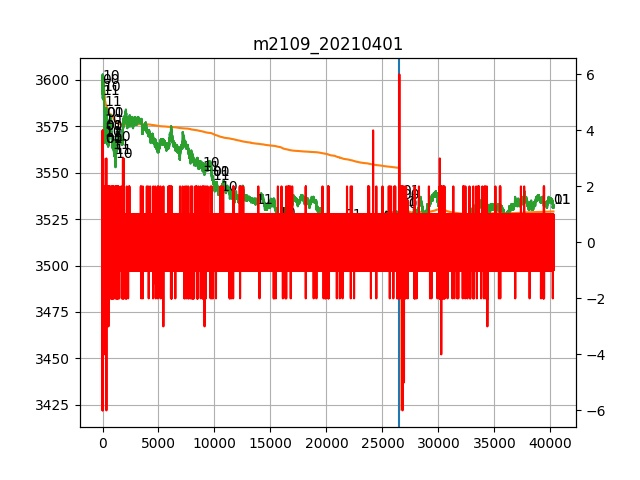
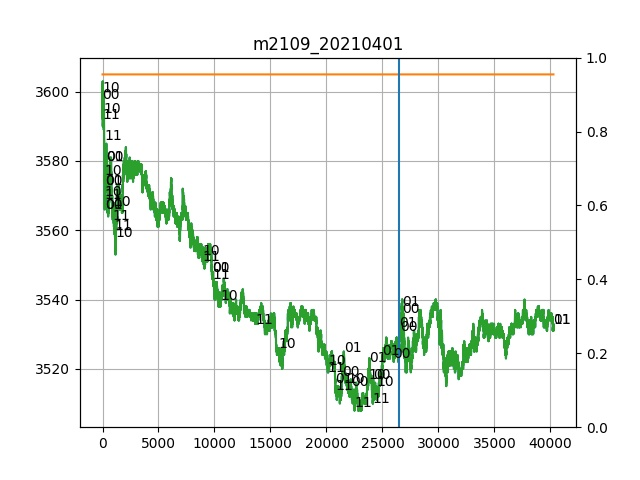
refactor

diff --git a/BackTester.py b/BackTester.py
@@ -9,6 +9,7 @@
 from define import *
 from Factor import Factor
 from Position import Position
+from Account import Account
 from editorconfig import get_properties, EditorConfigError
 import pandas as pd
 import logging
@@ -89,13 +90,15 @@ def on_tick(factor=None, position=None, tick=[], *args, **kwargs):
 
 def backtesting(product_id='m', trade_date='20210401', prev_date='2021-03-31'):
     file_name = 'C:\projects\pycharm\option_future_research\.editorconfig'
+    backtesting_config = "{0}_{1}".format(product_id, trade_date)
     try:
         options = get_properties(file_name)
     except EditorConfigError:
         logging.warning("Error getting EditorConfig propterties", exc_info=True)
     else:
         for key, value in options.items():
-            print("{0}:{1}".format(key, value))
+            backtesting_config = '{0},{1}:{2}'.format(backtesting_config, key, value)
+            # print("{0}:{1}".format(key, value))
     # load daily market data
     df = pd.read_csv('cache/future_20210331_20210630.csv')
     df = df[df.mainCon == 1]
@@ -116,6 +119,7 @@ def backtesting(product_id='m', trade_date='20210401', prev_date='2021-03-31'):
     values = m_df.values
     factor = Factor()
     position = Position()
+    account = Account()
     # kwargs.update({'instrument_id': instrument_id})
     #
     volitility = float(options.get('volitility')) or 20.0
@@ -126,18 +130,16 @@ def backtesting(product_id='m', trade_date='20210401', prev_date='2021-03-31'):
     stop_profit = float(options.get('stop_profit')) or 5.0
     stop_loss = float(options.get('stop_loss')) or 20.0
     print("target return", stop_profit)
-    # fee = float(options.get('fee')) or 3.0
     open_fee = float(options.get('open_fee')) or 3.0
     close_t0_fee = float(options.get('close_t0_fee')) or 0.0
     fee = open_fee + close_t0_fee
-    # start_tick must be greater than 2
     start_tick = int(options.get('start_tick')) or 2
     long_lots_limit = int(options.get('long_lots_limit')) or 1
     short_lots_limit = int(options.get('short_lots_limit')) or 1
     slope_upper = float(options.get('slope_upper')) or 1.0
     slope_lower = float(options.get('slope_lower')) or -1.0
     total_return = 0.0
-    transaction_lst = []
+    # transaction_lst = []
     _text_lst = ['00', '01', '10', '11']
     for idx, item in enumerate(values):
 
@@ -158,25 +160,34 @@ def backtesting(product_id='m', trade_date='20210401', prev_date='2021-03-31'):
         # _signal = on_tick(factor, position, item, args, kwargs)
         if _signal == LONG_OPEN:
             position.open_position(instrument_id, LONG, _last, _update_time)
-            transaction_lst.append([idx, instrument_id, _text_lst[LONG_OPEN], _last, _update_time, 0.0])
+            account.add_transaction(
+                [idx, instrument_id, _text_lst[LONG_OPEN], _last, _last, open_fee, _update_time, 0.0])
+            account.update_fee(open_fee)
 
         elif _signal == SHORT_OPEN:
             position.open_position(instrument_id, SHORT, _last, _update_time)
-            transaction_lst.append([idx, instrument_id, _text_lst[SHORT_OPEN], _last, _update_time, 0.0])
+            account.add_transaction(
+                [idx, instrument_id, _text_lst[SHORT_OPEN], _last, _last, open_fee, _update_time, 0.0])
+            account.update_fee(open_fee)
+
         elif _signal == LONG_CLOSE:
             _pos = position.get_position_side(instrument_id, LONG)
             if _pos:
                 position.close_position(instrument_id, LONG, _last, _update_time)
                 total_return += (_last - _pos[1]) * dict_multiplier.get(product_id) - fee
-                transaction_lst.append([idx, instrument_id, _text_lst[LONG_CLOSE], _last, _update_time,
-                                        (_last - _pos[1]) * dict_multiplier.get(product_id) - fee])
+                account.add_transaction(
+                    [idx, instrument_id, _text_lst[LONG_CLOSE], _last, _pos[1], close_t0_fee, _update_time,
+                     (_last - _pos[1]) * dict_multiplier.get(product_id) - fee])
+                account.update_fee(close_t0_fee)
         elif _signal == SHORT_CLOSE:
             _pos = position.get_position_side(instrument_id, SHORT)
             if _pos:
                 position.close_position(instrument_id, SHORT, _last, _update_time)
                 total_return += (_pos[1] - _last) * dict_multiplier.get(product_id) - fee
-                transaction_lst.append([idx, instrument_id, _text_lst[SHORT_CLOSE], _last, _update_time,
-                                        (_pos[1] - _last) * dict_multiplier.get(product_id) - fee])
+                account.add_transaction(
+                    [idx, instrument_id, _text_lst[SHORT_CLOSE], _last, _pos[1], close_t0_fee, _update_time,
+                     (_pos[1] - _last) * dict_multiplier.get(product_id) - fee])
+                account.update_fee(close_t0_fee)
         else:  # NO_SIGNAL
             pass
             # _pos = position.get_position(instrument_id)
@@ -191,12 +202,16 @@ def backtesting(product_id='m', trade_date='20210401', prev_date='2021-03-31'):
         for item in _pos:
             if item[0] == LONG:
                 total_return += ((_last_price - item[1]) * dict_multiplier.get(product_id) - fee)
-                transaction_lst.append([idx, instrument_id, _text_lst[LONG_CLOSE], _last_price, _update_time,
-                                        (_last_price - item[1]) * dict_multiplier.get(product_id) - fee])
+                account.add_transaction(
+                    [idx, instrument_id, _text_lst[LONG_CLOSE], _last_price, item[1], close_t0_fee, _update_time,
+                     (_last_price - item[1]) * dict_multiplier.get(product_id) - fee])
+                account.update_fee(close_t0_fee)
             else:
                 total_return += ((item[1] - _last_price) * dict_multiplier.get(product_id) - fee)
-                transaction_lst.append([idx, instrument_id, _text_lst[SHORT_CLOSE], _last_price, _update_time,
-                                        (item[1] - _last_price) * dict_multiplier.get(product_id) - fee])
+                account.add_transaction(
+                    [idx, instrument_id, _text_lst[SHORT_CLOSE], _last_price, item[1], close_t0_fee, _update_time,
+                     (item[1] - _last_price) * dict_multiplier.get(product_id) - fee])
+                account.update_fee(close_t0_fee)
 
     _idx_lst = list(range(len(factor.last_price)))
     fig = plt.figure()
@@ -224,22 +239,23 @@ def backtesting(product_id='m', trade_date='20210401', prev_date='2021-03-31'):
     for _idx in x_idx:
         xtick_labels.append(factor.update_time[_idx])
     # ax1.xticks(x_idx, xtick_labels, rotation=60, FontSize=6)
-    for item in transaction_lst:
+    for item in account.transaction:
         _t_lst = ['lo', 'lc', 'so', 'sc']
         ax1.text(item[0], item[3], s='{0}'.format(item[2]))
 
     ax2 = ax1.twinx()
-    ax2.plot(_idx_lst[PLT_START:PLT_END], factor.slope[PLT_START:PLT_END], 'r')
+    # ax2.plot(_idx_lst[PLT_START:PLT_END], factor.slope[PLT_START:PLT_END], 'r')
 
     plt.savefig('results/{0}_{1}.jpg'.format(instrument_id, trade_date))
     # plt.show()
-    trans_df = pd.DataFrame(transaction_lst,
-                            columns=['idx', 'instrument_id', 'direction', 'price', 'timestamp', 'return'])
+    trans_df = pd.DataFrame(account.transaction,
+                            columns=['idx', 'instrument_id', 'direction', 'price', 'open_price', 'fee', 'timestamp',
+                                     'return'])
     trans_df.to_csv('results/trans_{0}_{1}.csv'.format(instrument_id, trade_date), index=False)
     long_open, short_open, correct_long_open, wrong_long_open, correct_short_open, wrong_short_open = 0, 0, 0, 0, 0, 0
     total_fee = 0.0
 
-    for item in transaction_lst:
+    for item in account.transaction:
         if item[2] == '00':
             long_open += 1
         elif item[2] == '10':
@@ -257,10 +273,13 @@ def backtesting(product_id='m', trade_date='20210401', prev_date='2021-03-31'):
 
     print(long_open, short_open, correct_long_open, wrong_long_open, correct_short_open, wrong_short_open)
     print('total return:', total_return)
+    print('total fee:', account.fee)
     precision = (correct_long_open + correct_short_open) / (long_open + correct_short_open)
-    f = open("results/results_{0}.txt".format(trade_date), "a")
+    f = open("results/results_{0}.txt".format(product_id), "a")
+    _key = '{0}_{1}'.format(trade_date, instrument_id)
     f.write(
-        "{0}:{1},long_open:{2},short_open:{3},correct_long_open:{4},wrong_long_open:{5},correct_short_open:{6},"
-        "wrong_short_open:{7},precision:{8};\n".format(
-            instrument_id, total_return, long_open, short_open, correct_long_open, wrong_long_open, correct_short_open,
-            wrong_short_open, precision))
+        "${0}\ntotal_return:{1},long_open:{2},short_open:{3},correct_long_open:{4},wrong_long_open:{5},correct_short_open:{6},"
+        "wrong_short_open:{7},precision:{8},total_fee:{9}\n".format(
+            backtesting_config, total_return, long_open, short_open, correct_long_open, wrong_long_open,
+            correct_short_open,
+            wrong_short_open, precision, account.fee))

diff --git a/T0Signal.py b/T0Signal.py
@@ -1,0 +1,80 @@
+#!/usr/bin/env python
+# -*- coding: utf-8 -*-
+# @Time    : 2021/7/26 16:32
+# @Author  : rpyxqi@gmail.com
+# @Site    : 
+# @File    : T0Signal.py
+
+from Signal import Signal
+from define import *
+from Factor import Factor
+from Position import Position
+
+
+class TOSignal(Signal):
+    def __init__(self, factor, position):
+        super().__init__(factor, position)
+
+    def get_signal(self, *args, **kwargs):
+        assert isinstance(self.factor, Factor)
+        assert isinstance(self.position, Position)
+        volitility = kwargs.get('volitility') or 20.0
+        k1 = kwargs.get('k1') or 1.0
+        k2 = kwargs.get('k2') or 1.0
+        instrument_id = kwargs.get('instrument_id')
+        # adjust by multiplier
+        stop_profit = kwargs.get('stop_profit') or 5.0
+        stop_loss = kwargs.get('stop_loss') or 20.0
+
+        # fee = kwargs.get('fee') or 3.0
+        open_fee = kwargs.get('open_fee') or 1.51
+        close_to_fee = kwargs.get('close_t0_fee') or 0.0
+        fee = open_fee + close_to_fee
+        # start_tick must be greater than 2
+        start_tick = kwargs.get('start_tick') or 2
+        long_lots_limit = kwargs.get('long_lots_limit') or 1
+        short_lots_limit = kwargs.get('short_lots_limit') or 1
+        slope_upper = kwargs.get('slope_upper') or 1.0
+        slope_lower = kwargs.get('slope_lower') or -1.0
+        _position = self.position.get_position(instrument_id)
+
+        if len(self.factor.last_price) < start_tick:
+            return NO_SIGNAL
+        _long, _short, long_price, short_price = 0, 0, 0.0, 0.0
+
+        if _position:
+            for item in _position:
+                if item[0] == LONG:
+                    long_price = item[1]
+                    _long += 1
+                elif item[0] == SHORT:
+                    short_price = item[1]
+                    _short += 1
+        # if factor.last_price[-1] > factor.last_price[-2] and factor.last_price[-1] > factor.vwap[
+        #     -1] + k1 * volitility and not _long:
+        if (self.factor.slope[-1] > self.factor.slope[-2]) and (self.factor.slope[-2] < self.factor.slope[-3]) and abs(
+                self.factor.slope[-1]) > slope_upper and _short < short_lots_limit:
+            # if (factor.slope[-1] > factor.slope[-2]) and abs(
+            #             factor.slope[-1]) > 0.8 and not _long:
+            # print(factor.last_price, factor.slope)
+            # print(_short, short_lots_limit)
+            return SHORT_OPEN
+        # if factor.last_price[-1] < factor.last_price[-2] and factor.last_price[-1] < factor.vwap[
+        #     -1] + k2 * volitility and not _short:
+        if (self.factor.slope[-1] < self.factor.slope[-2]) and (self.factor.slope[-2] > self.factor.slope[-3]) and abs(
+                self.factor.slope[-1]) > slope_upper and _long < long_lots_limit:
+            # if (factor.slope[-1] < factor.slope[-2]) and abs(
+            #             factor.slope[-1]) > 0.8 and not _short:
+
+            # print(factor.last_price,factor.slope)
+            return LONG_OPEN
+        # if factor.last_price[-1] < factor.last_price[-2] and _long and factor.last_price[-1] > long_price + stop_profit:
+        if _long and (self.factor.last_price[-1] > long_price + stop_profit + fee or
+                      self.factor.last_price[-1] < long_price - stop_loss - fee):
+            return LONG_CLOSE
+        # if factor.last_price[-1] > factor.last_price[-2] and _short and short_price > factor.last_price[-1] + stop_profit:
+        if _short and (
+                short_price > self.factor.last_price[-1] + stop_profit + fee or self.factor.last_price[
+            -1] > short_price + stop_loss + fee):
+            return SHORT_CLOSE
+        return NO_SIGNAL

diff --git a/main.py b/main.py
@@ -6,7 +6,7 @@
 # @File    : main.py
 
 
-
+from BackTester import backtesting
 
 
 def search_label(lst=[], win_len=5):
@@ -20,10 +20,7 @@ def search_label(lst=[], win_len=5):
         # if ret[idx-1] <0 and ret[idx-2]<0 and ret[idx-3]<0:
 
 
-
-
 if __name__ == "__main__":
     # backtesting(product_id='ru', trade_date='20210401', prev_date='2021-03-31', volitily=18.0, k1=0.2, k2=0.2,
     #             stop_profit=100.0, fee=3.0)
-    # backtesting(product_id='m', trade_date='20210401', prev_date='2021-03-31')
-    print('hello')
+    backtesting(product_id='m', trade_date='20210401', prev_date='2021-03-31')

diff --git a/Signal.py b/Signal.py
@@ -1,0 +1,18 @@
+#!/usr/bin/env python
+# -*- coding: utf-8 -*-
+# @Time    : 2021/7/26 16:28
+# @Author  : rpyxqi@gmail.com
+# @Site    : 
+# @File    : Signal.py
+
+import abc
+
+
+class Signal(object):
+    def __init__(self, factor, position):
+        self.factor = factor
+        self.position = position
+
+    @abc.abstractmethod
+    def get_signal(self, *args, **kwargs):
+        pass

diff --git a/Factor.py b/Factor.py
@@ -5,6 +5,7 @@
 # @Site    : 
 # @File    : Factor.py
 
+import numpy as np
 
 
 class Factor(object):
